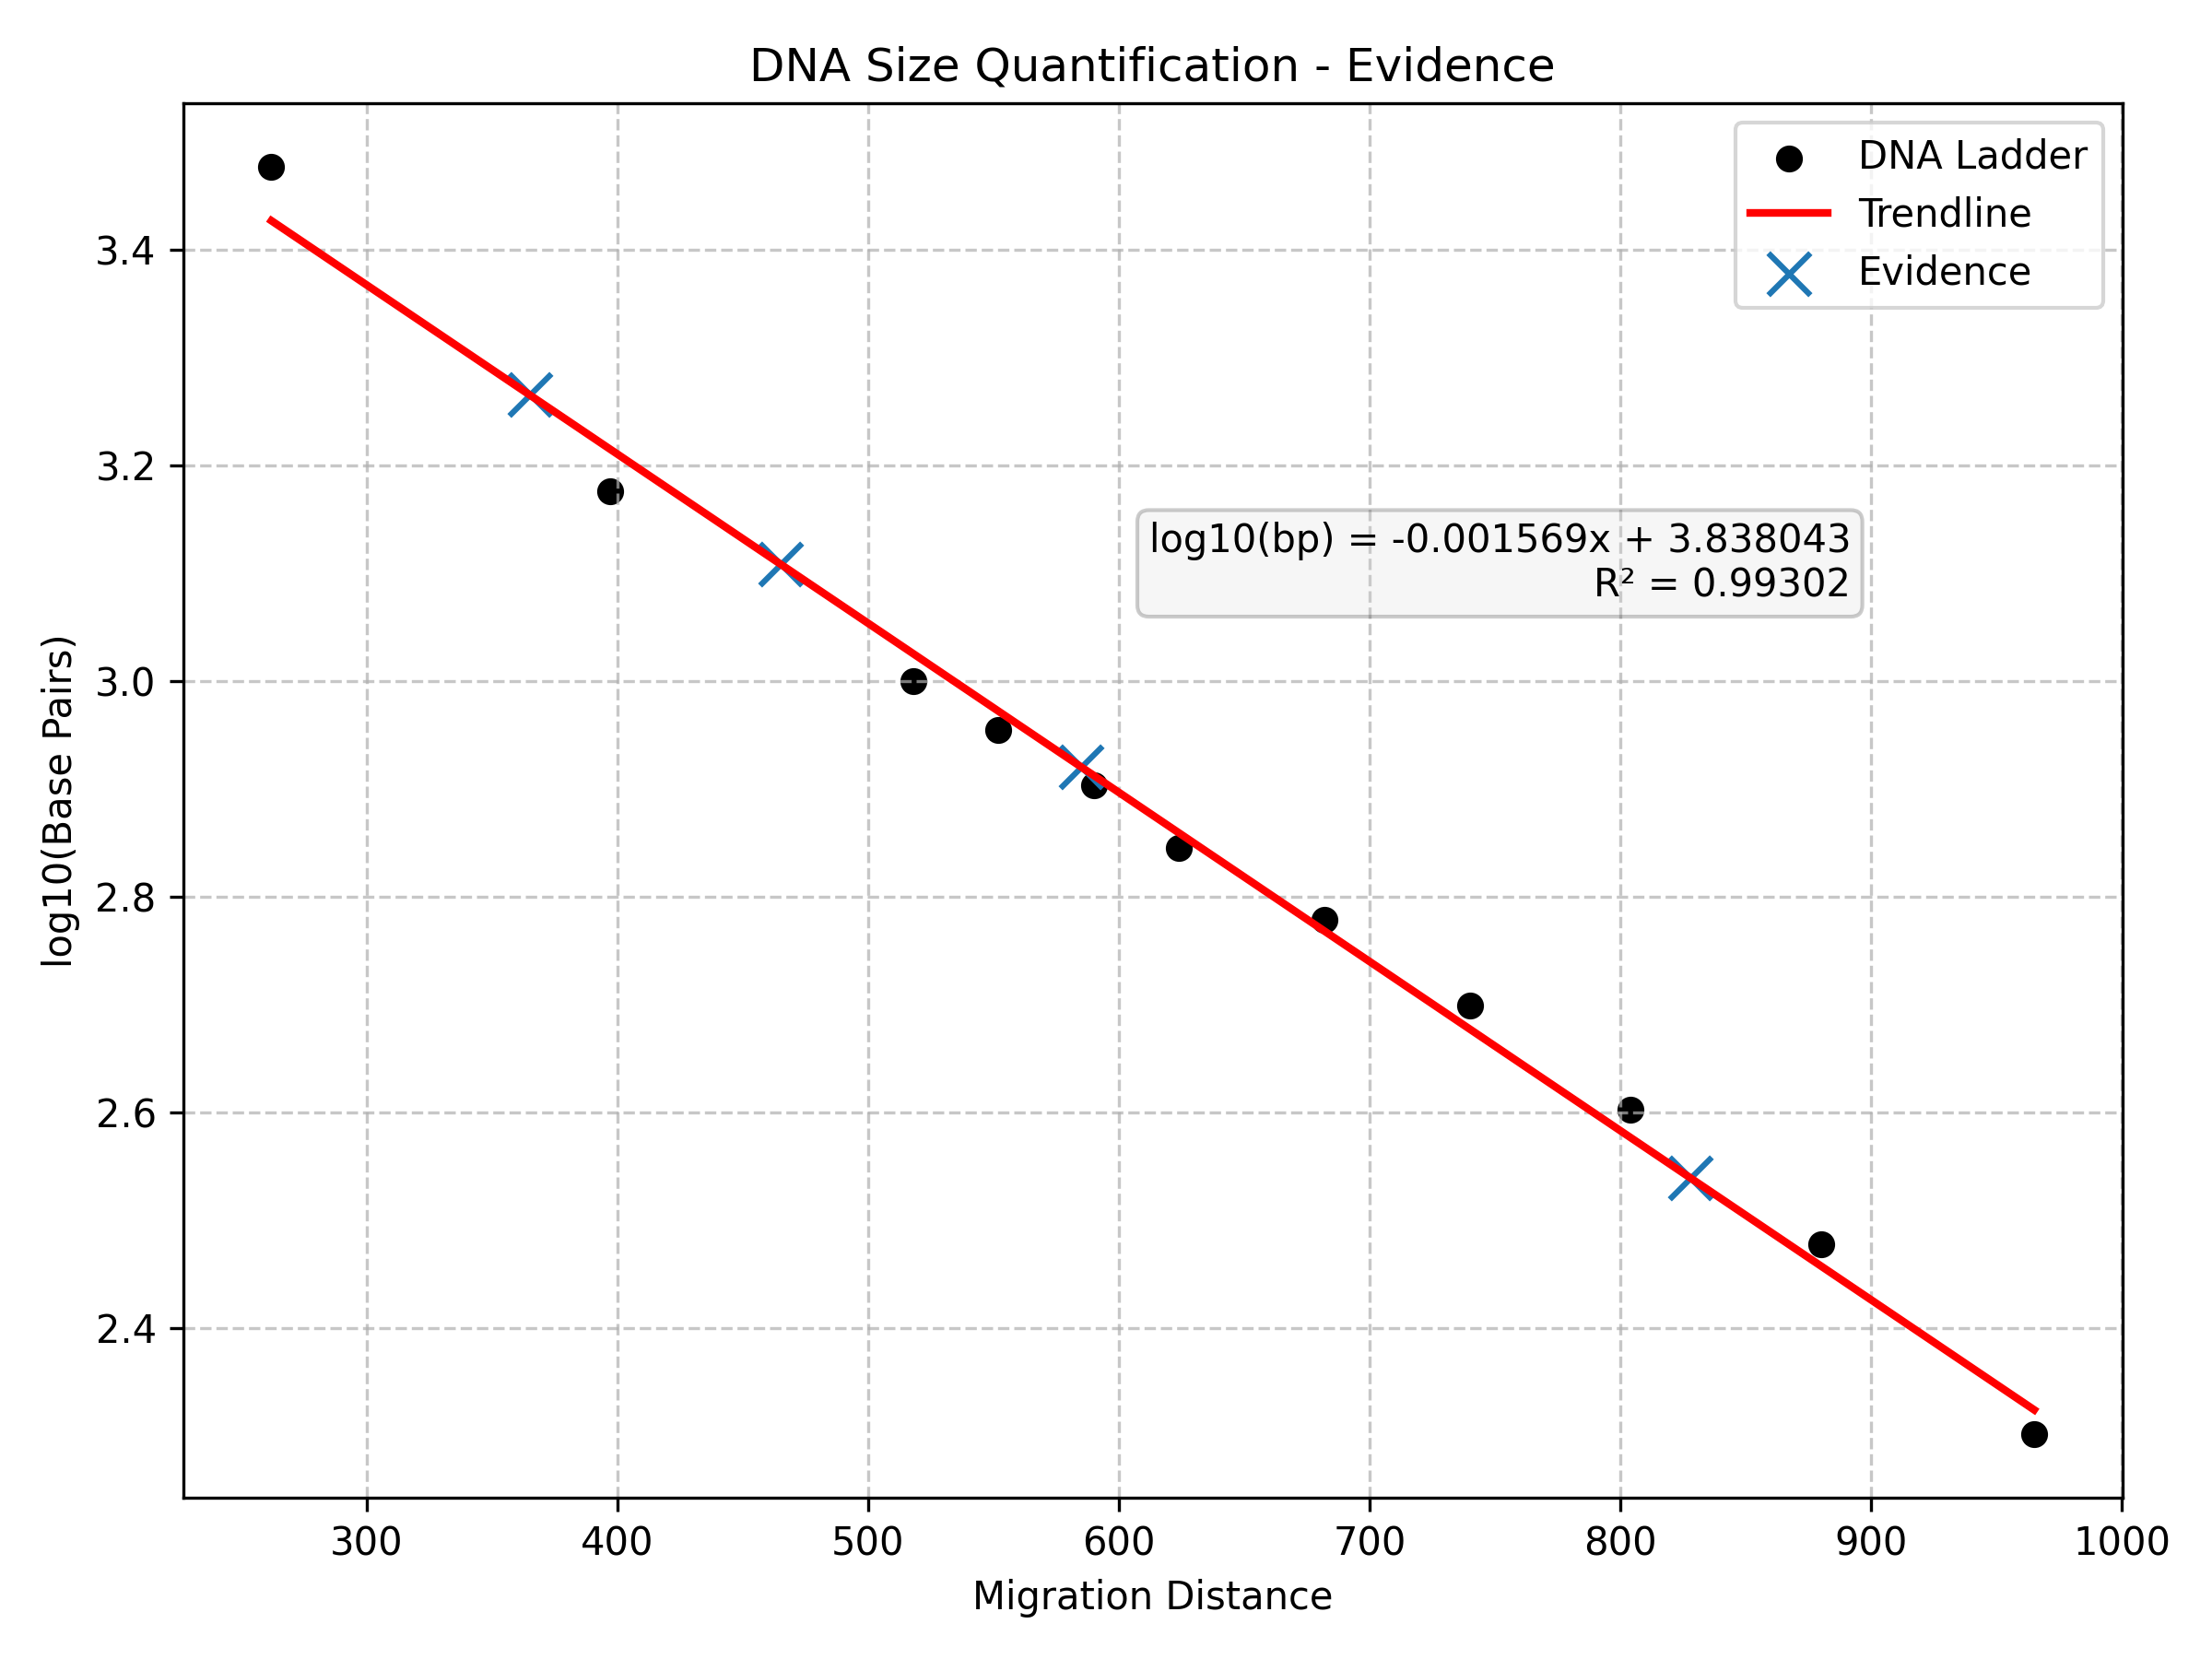
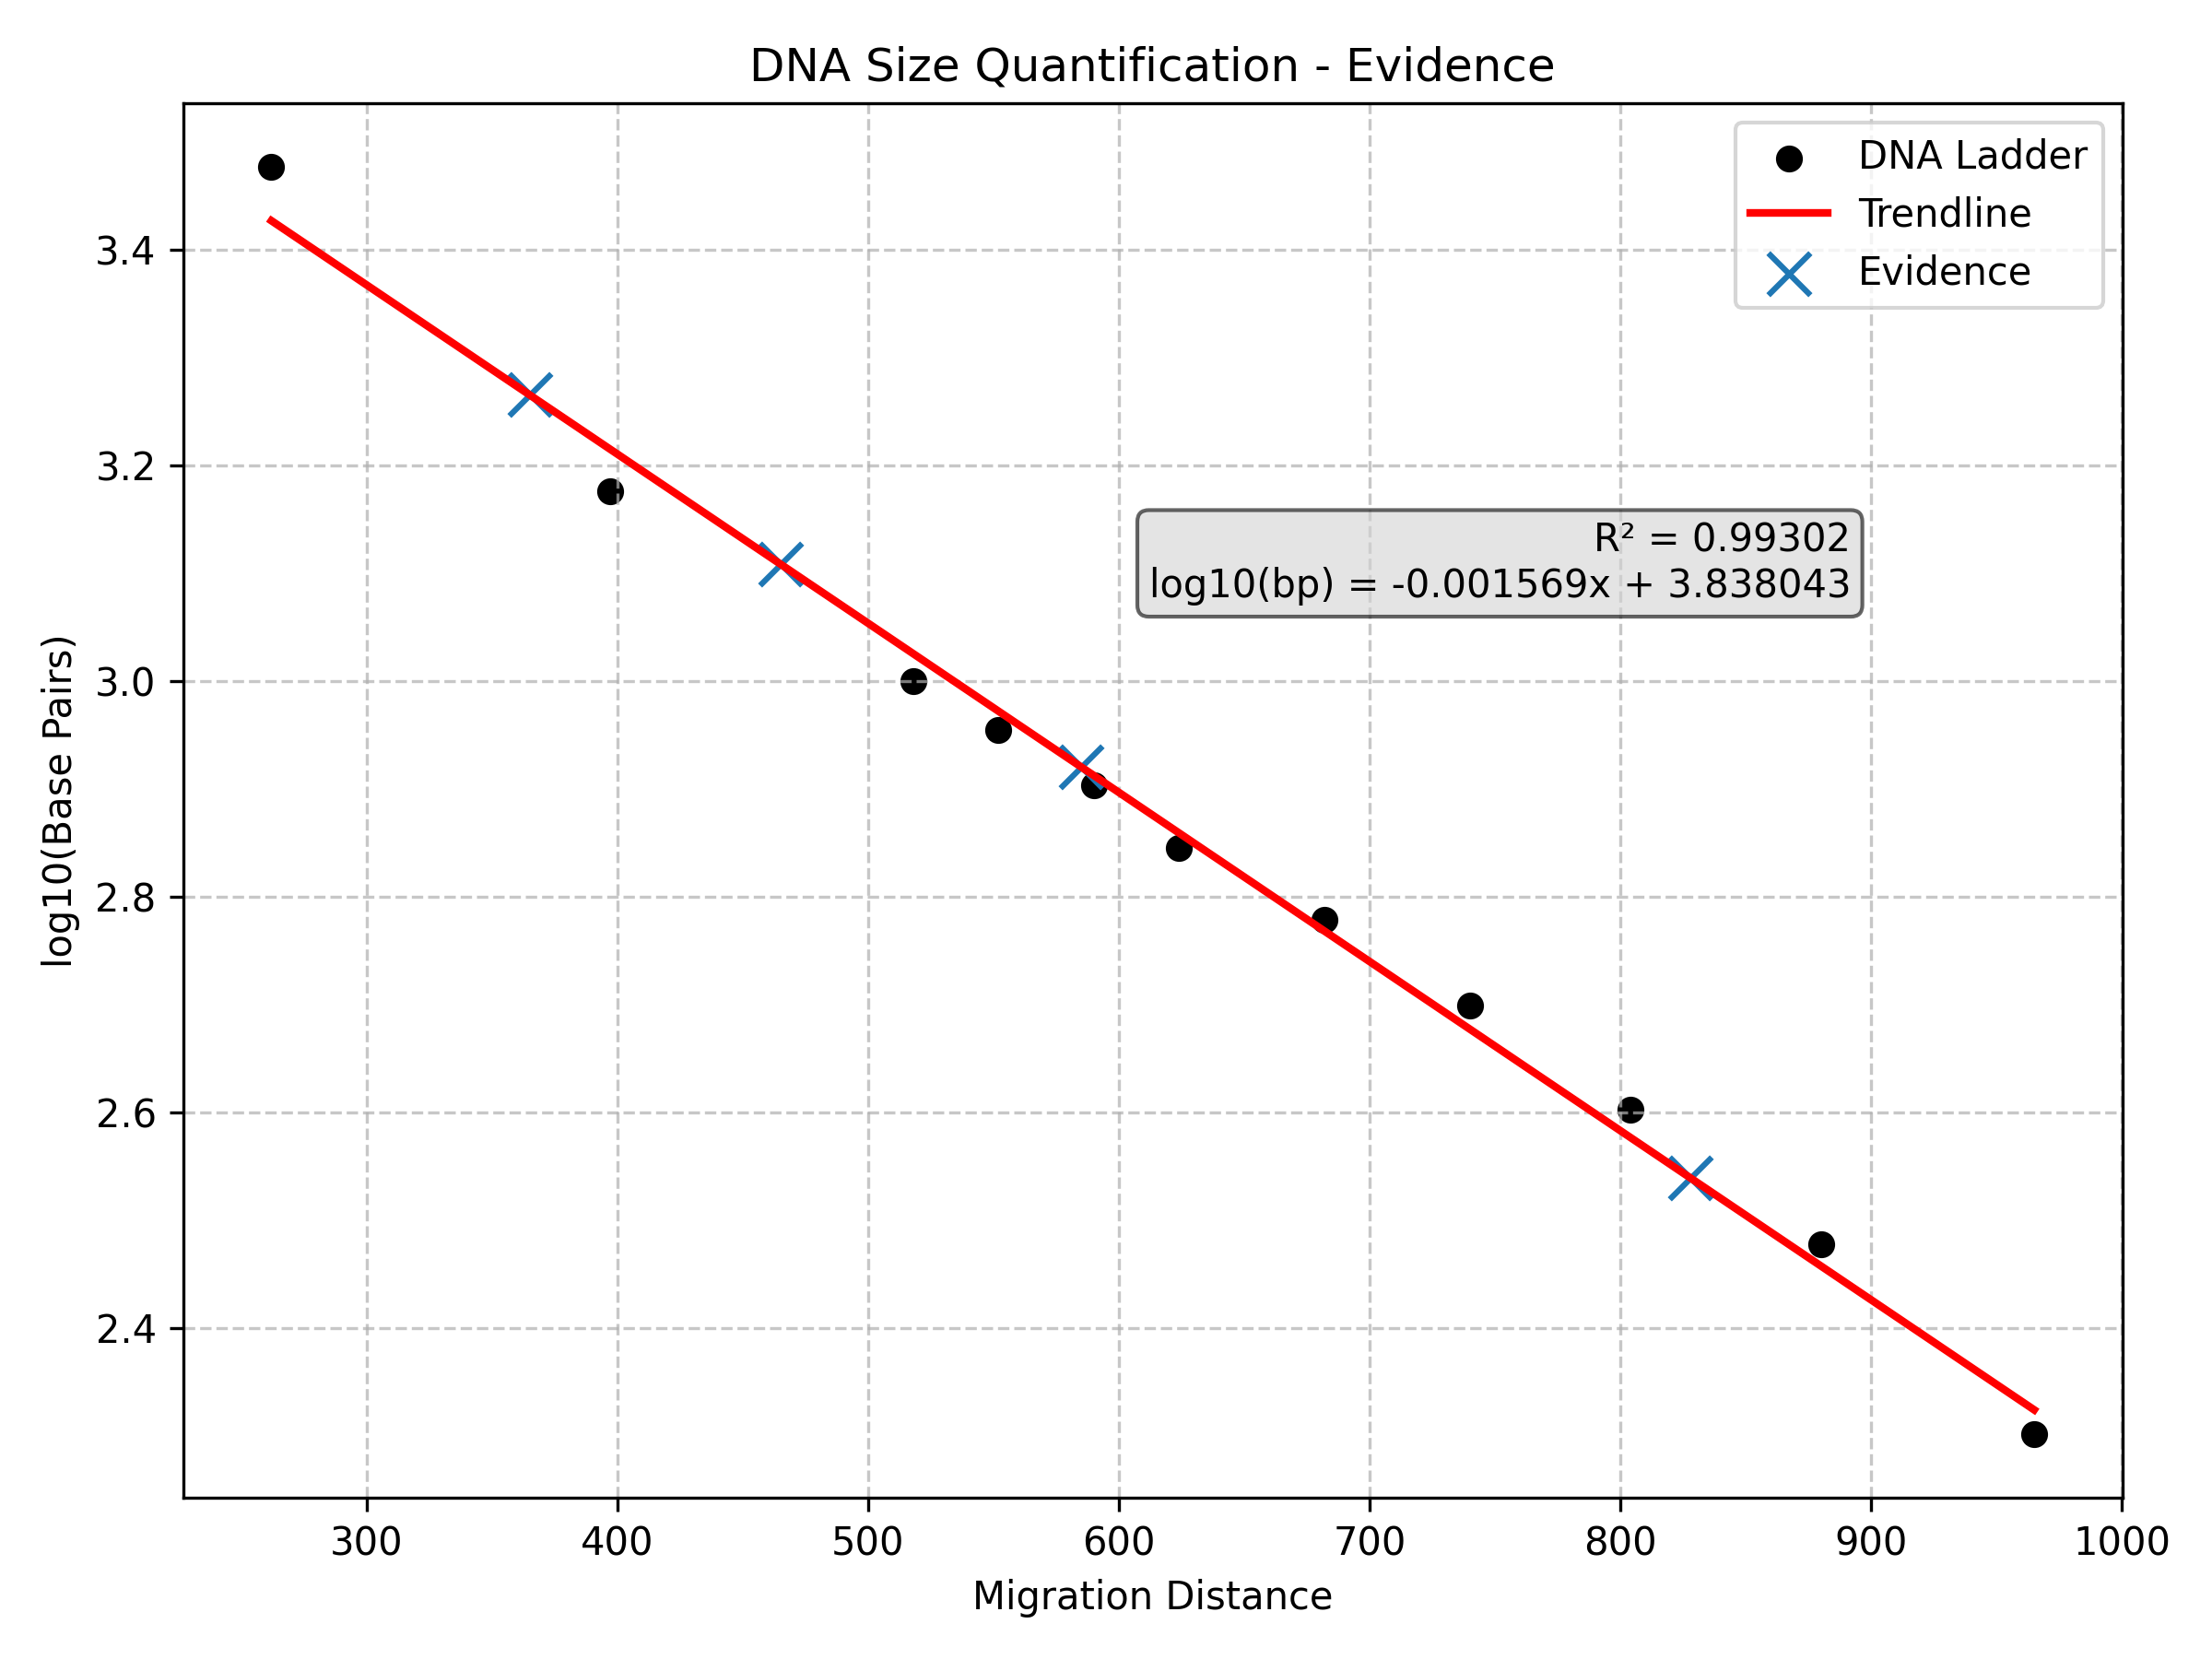
Bugfix #1

Changed region(s): [[0.5, 0.3111, 0.8438, 0.3733]]

diff --git a/main.py b/main.py
@@ -24,34 +24,7 @@ for directory in [
 
 # --------------- INPUT DATA ---------------
 
-# ladder_bp = np.array([
-#     3000, 1500, 1000, 900,
-#     800, 700, 600, 500,
-#     400, 300, 200
-# ])
-
-# ladder_distance = np.array([
-#     262, 397, 518, 552, 590, 624, 682, 
-#     740, 804, 880, 965
-# ])
-
-# evidence_distance = np.array([
-#     365, 465, 585, 828
-# ])
-
-# suspect1_distance = np.array([
-#     272, 373, 430, 730, 833
-# ])
-
-# suspect2_distance = np.array([
-#     335, 445, 573, 822
-# ])
-
-# suspect3_distance = np.array([
-#     340, 445, 570, 610, 827
-# ])
-
-with open("dna_data.json", "r") as f:
+with open("data.json", "r") as f:
     data = json.load(f)
 
 ladder_bp = np.array(
@@ -73,18 +46,16 @@ for suspect_name, suspect_data in data["suspects"].items():
         suspect_data["distance"]
     )
 
-# ============================================================
-# VALIDATION
-# ============================================================
+
+# --------------- VALIDATION ---------------
 
 if len(ladder_bp) != len(ladder_distance):
     raise ValueError(
         "ladder_bp and ladder_distance must have the same number of values."
     )
 
-# ============================================================
-# STANDARD CURVE
-# ============================================================
+
+# --------------- STANDARD CURVE ---------------
 
 ladder_log_bp = np.log10(ladder_bp)
 
@@ -106,14 +77,13 @@ ss_tot = np.sum(
 
 r2 = 1 - (ss_res / ss_tot)
 
-print("\n===== STANDARD CURVE =====")
+print("\n------- STANDARD CURVE -------")
 print(f"Slope      : {slope:.6f}")
 print(f"Intercept  : {intercept:.6f}")
 print(f"R²         : {r2:.6f}")
 
-# ============================================================
-# SAVE LADDER CSV
-# ============================================================
+
+# --------------- SAVE LADDER CSV ---------------
 
 ladder_df = pd.DataFrame({
     "Distance": ladder_distance,
@@ -126,9 +96,8 @@ ladder_df.to_csv(
     index=False
 )
 
-# ============================================================
-# FUNCTIONS
-# ============================================================
+
+# --------------- FUNCTIONS ---------------
 
 def estimate_bp(distances):
     """
@@ -208,8 +177,8 @@ def create_plot(name, distances, folder):
     )
 
     equation = (
-        f"log10(bp) = {slope:.6f}x + {intercept:.6f}\n"
-        f"R² = {r2:.5f}"
+        f"R² = {r2:.5f}\n"
+        f"log10(bp) = {slope:.6f}x + {intercept:.6f}"
     )
 
     plt.text(
@@ -224,7 +193,7 @@ def create_plot(name, distances, folder):
             boxstyle="round",
             facecolor="lightgray",
             edgecolor="black",
-            alpha=0.2
+            alpha=0.6
         )
     )
 
@@ -270,9 +239,8 @@ def matching_error(evidence_log_bp, suspect_log_bp):
         )
     )
 
-# ============================================================
-# SAVE STANDARD CURVE PLOT
-# ============================================================
+
+# --------------- SAVE STANDARD CURVE PLOT ---------------
 
 x_fit = np.linspace(
     ladder_distance.min(),
@@ -316,7 +284,7 @@ plt.text(
         boxstyle="round",
         facecolor="lightgray",
         edgecolor="black",
-        alpha=0.2
+        alpha=0.6
     )
 )
 
@@ -342,9 +310,8 @@ plt.savefig(
 
 plt.close()
 
-# ============================================================
-# PROCESS EVIDENCE
-# ============================================================
+
+# --------------- PROCESS EVIDENCE ---------------
 
 evidence_log_bp, evidence_bp = save_sample_csv(
     "evidence",
@@ -358,9 +325,8 @@ create_plot(
     EVIDENCE_DIR
 )
 
-# ============================================================
-# PROCESS SUSPECTS
-# ============================================================
+
+# --------------- PROCESS SUSPECTS ---------------
 
 scores = []
 
@@ -387,9 +353,8 @@ for name, distances in suspects.items():
         [name, score]
     )
 
-# ============================================================
-# RANK SUSPECTS
-# ============================================================
+
+# --------------- RANK SUSPECTS ---------------
 
 ranking_df = pd.DataFrame(
     scores,
@@ -413,9 +378,8 @@ ranking_df.to_csv(
 
 best_match = ranking_df.iloc[0]
 
-# ============================================================
-# MATCH REPORT
-# ============================================================
+
+# --------------- MATCH REPORT ---------------
 
 report_df = pd.DataFrame({
     "Slope": [slope],
@@ -436,11 +400,10 @@ report_df.to_csv(
     index=False
 )
 
-# ============================================================
-# PRINT SUMMARY
-# ============================================================
 
-print("\n===== SUSPECT RANKING =====")
+# --------------- PRINT SUMMARY ---------------
+
+print("\n------- SUSPECT RANKING -------")
 
 for _, row in ranking_df.iterrows():
     print(

diff --git a/README.md b/README.md
@@ -102,7 +102,23 @@ git clone <repository-url>
 cd <repository-name>
 ```
 
-### 2. Install Dependencies
+
+### 2. Create Virtual Environment (Recommended)
+
+Although this is not necessary for the program to work, it is highly recommended that you create a virtual environment.
+
+Create a virtual environment (venv):
+```bash
+python -m venv <name-of-venv>
+```
+
+Activate the virtual environment:
+```bash
+<name-of-venv>\Scripts\activate
+```
+
+
+### 3. Install Dependencies
 
 A requirements file is included.
 